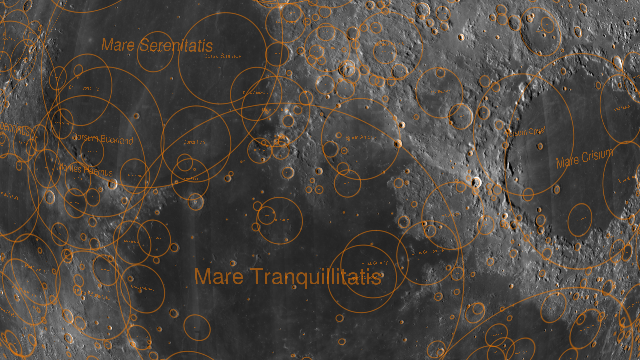
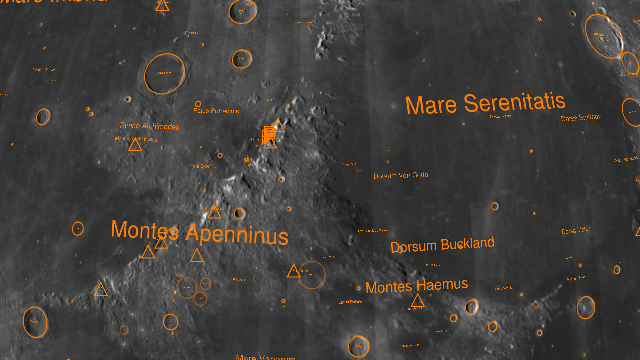
Documentation updates.
git-svn-id: https://s.snth.net/svn/rlk/thumb@3263 dcf3a027-e0e4-0310-89c9-ab9954db6d00

diff --git a/doc/README.html b/doc/README.html
@@ -365,6 +365,11 @@
 &lt;option name="orbiter_joystick_axis_Y"&gt;1&lt;/option&gt;
 &lt;option name="orbiter_joystick_button_U"&gt;0&lt;/option&gt;
 &lt;option name="orbiter_joystick_button_D"&gt;1&lt;/option&gt;</pre></blockquote>
+
+      <p><li>The icon size option selects the size of the icons used in <a href="#labels">feature labeling</a>, in pixels. Increasing this value will make these icons more visible on large, high-resolution displays. For best quality, use a power of two.</li></p>
+
+      <blockquote><pre>&lt;option name="orbiter_icon_size"&gt;16&lt;/option&gt;</pre></blockquote>
+
     </ul>
 
     <a name="datconf"><h3>Data Configuration</h3></a>
@@ -444,28 +449,33 @@
 
     <img src="img/label.png">
 
-    <p>These labellings are defined using Comma-Separated Value (CSV) files, which may be edited with most any spreadsheet program. Text is encoded using UTF8, which enables the use of accents and foreign characters. The image above shows 8990 sites acknowledged by the IAU. The first few lines of this file are as follows:</p>
+    <p>These labellings are defined using Comma-Separated Value (CSV) files, which may be edited with most any spreadsheet program or text editor. Text is encoded using UTF8, which enables the use of accents and foreign characters. The image above shows 8990 sites acknowledged by the IAU. The first few lines of this file are as follows:</p>
 
     <blockquote><pre>
-"Abbot",5.5157114264,54.7073670159,10.4043000000,1737400.0,C
-"Abel",-34.4365372844,85.4191847678,119.4370000000,1737400.0,C
-"Tiling",-52.9059642528,226.8524033223,38.2300000000,1737400.0,C
-"Abenezra",-21.0078405096,11.8763800960,43.1887000000,1737400.0,C</pre></blockquote>
+"Abbot",5.5157114264,54.7073670159,10404.3,1736106.29688,AA
+"Abel",-34.4365372844,85.4191847678,119437.0,1734978.15625,AA
+"Tiling",-52.9059642528,226.8524033223,38230.0,1733504.9375,AA
+"Abenezra",-21.0078405096,11.8763800960,43188.7,1737983.65625,AA
+"Perepelkin P",-12.4460507308,127.2385632171,23478.0,1740759.25,SF
+</pre></blockquote>
 
-    <p>Each line defines one feature with six attributes: the name in double quotes, the center latitude in degrees, the center longitude in degrees, the diameter of the feature in kilometers, distance from the center of the planet in meters, and one character giving the type of the annotation:</p>
+    <p>Each line defines one feature with six attributes: the name in double quotes, the center latitude in degrees, the center longitude in degrees, the diameter of the feature in meters, distance from the center of the planet in meters, and a pair of characters giving the IAU type of the annotation, which determines how the annotation is drawn.</p>
 
-    <table style="margin:auto;width:40%">
+    <table style="margin:auto;width:80%">
       <tr>
-        <td>C</td><td>&hellip;</td><td>Circle</td>
+        <td>AA</td><td>&hellip;</td><td>Crater, drawn as a circle of the given diameter.</td>
       </tr>
       <tr>
-        <td>F</td><td>&hellip;</td><td>Flag</td>
+        <td>SF</td><td>&hellip;</td><td>Satellite feature, drawn as a dim circle of the given diameter.</td>
       </tr>
       <tr>
-        <td>M</td><td>&hellip;</td><td>Mountain</td>
+        <td>MO</td><td>&hellip;</td><td>Mountain or range, drawn as a triangle icon</td>
       </tr>
       <tr>
-        <td>L</td><td>&hellip;</td><td>Label Only</td>
+        <td>LF</td><td>&hellip;</td><td>Landing site feature, drawn as a flag icon</td>
+      </tr>
+      <tr>
+        <td><i>all others</i></td><td>&hellip;</td><td>Drawn with label only</td>
       </tr>
     </table>
 
@@ -485,6 +495,8 @@
       <li><p>If performance is bad, be sure that SCM TIFF files are <em>not</em> being accessed from a network share. Also check that <tt>scm_viewer_cache_size</tt> is not too large.</p></li>
 
       <li><p>If the application exits unexpectedly, it will most likely have printed an error message to the standard error stream. Under Windows, this information will be redirected to the file <tt>stderr.txt</tt>. This may prove informative.</p></li>
+
+      <li><p>If the renderer emits error messages about &ldquo;implementation limits&rdquo; on &ldquo;active samplers&rdquo; then you're probably running OS X, which places artificial limits on the usable number of texture image units. High resolution visualizations will not run. Windows and Linux do not impose these artificial limits, even on the same hardware.</p>
     </ul>
 
     <a name="scm"><h2>SCM TIFF</h2></a>

diff --git a/scm-label.cpp b/scm-label.cpp
@@ -25,7 +25,7 @@
 #define LABEL_R 0xFF
 #define LABEL_G 0x80
 #define LABEL_B 0x00
-#define LABEL_A 0x80
+#define LABEL_A 0xFF
 
 //------------------------------------------------------------------------------
 
@@ -269,7 +269,7 @@ scm_label::scm_label(const void *data_ptr, size_t data_len,
         {
             sprite S(M, labels[i].typ);
             sprite_v.push_back(S);
-            x = +h / 4.0;
+            y = +h / 3.0;
         }
 
         // Create a circle.
@@ -278,7 +278,6 @@ scm_label::scm_label(const void *data_ptr, size_t data_len,
         {
             circle C(M, labels[i].typ);
             circle_v.push_back(C);
-            x = -w / 2.0;
         }
 
         // Add the string and matrix to the list.
